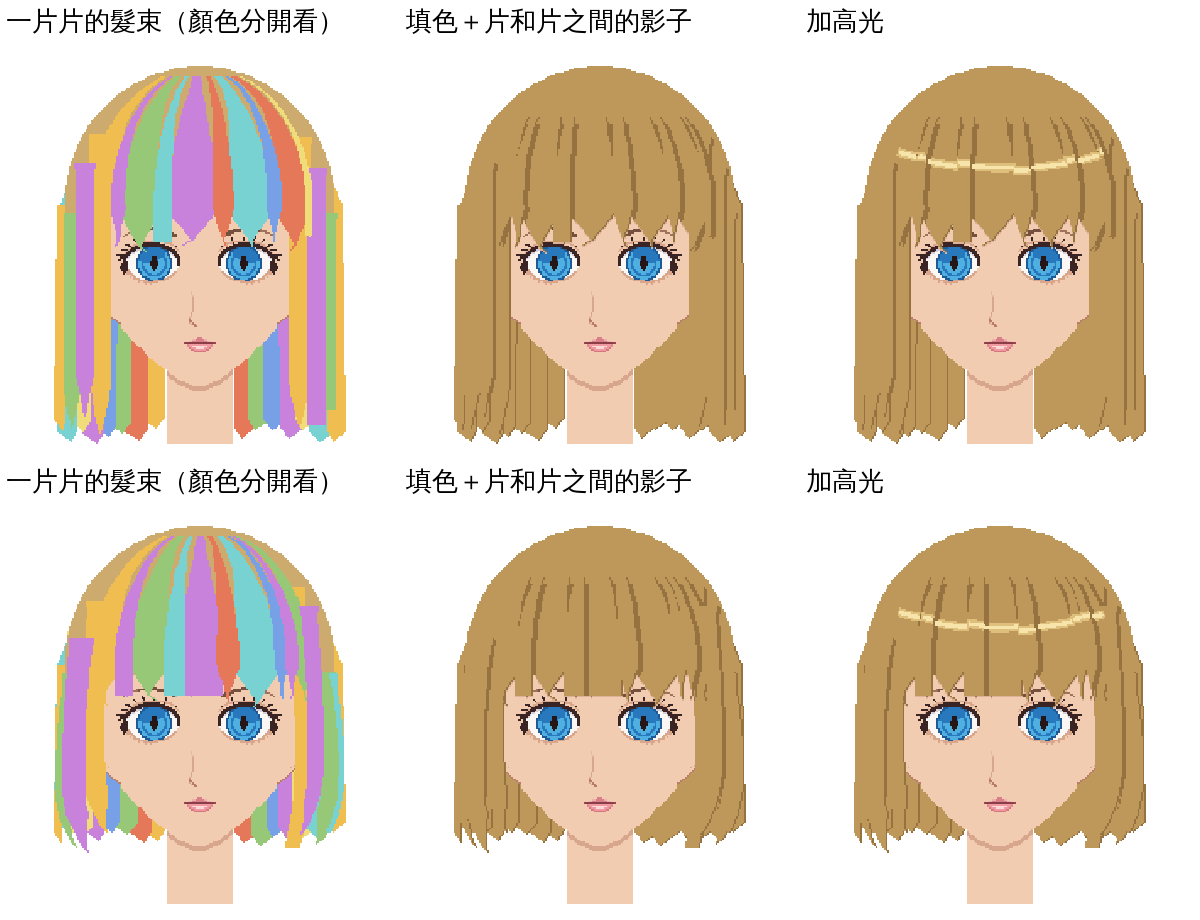
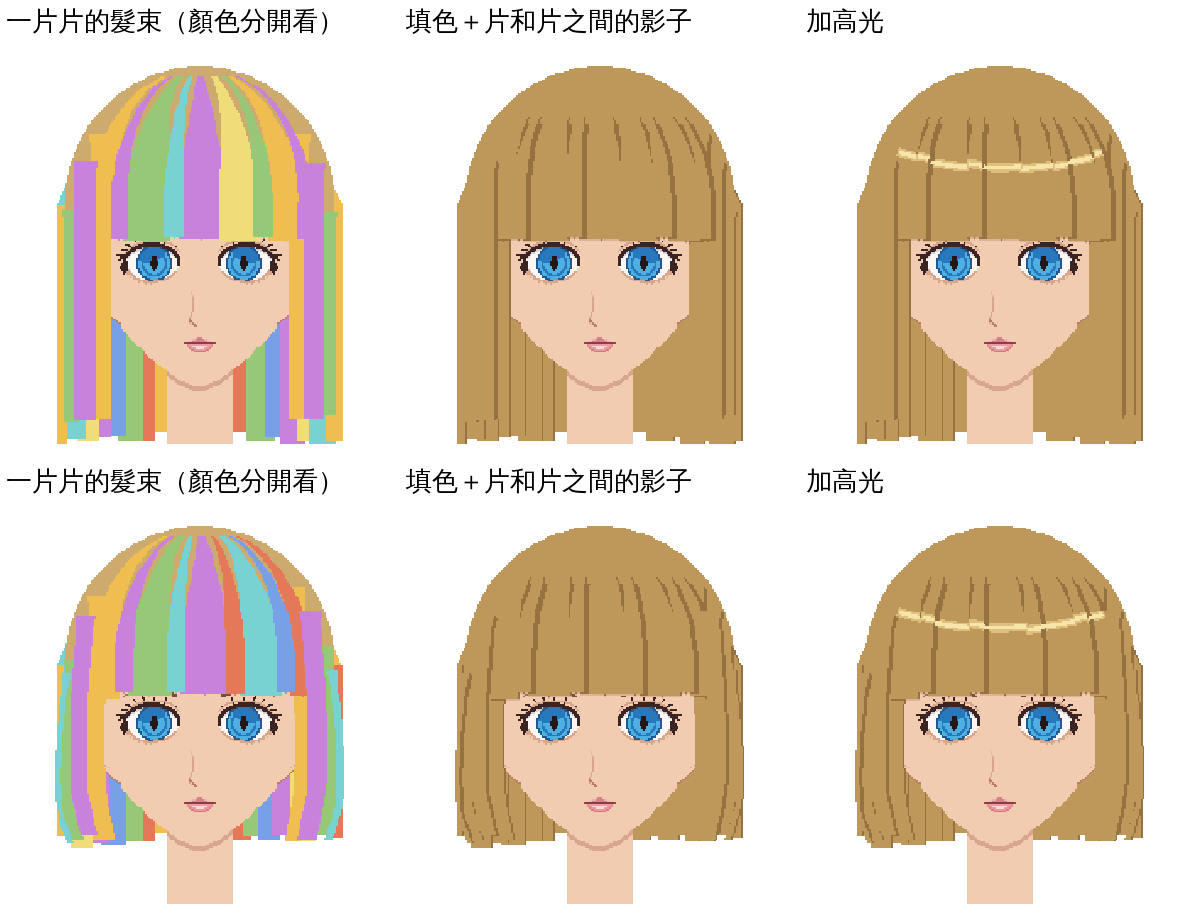
droom 臉模 v2：髮束每一片下面改成平的（剪齊，使用者），長短只差一點點；兩側、後髮的片也是平底
Claude-Session: https://claude.ai/code/session_01FDQv7ddy7JMjePn6AqJ3VJ

diff --git a/web/droom/face_mold/v2/hair_clumps.py b/web/droom/face_mold/v2/hair_clumps.py
@@ -30,8 +30,8 @@ def bang_clumps(rnd):
   while p<58:
     w=rnd.uniform(15,20) if big else rnd.uniform(6,9)
     a,b=p-(1.2 if big else .6),min(60,p+w+(1.2 if big else .6))
-    L=(rnd.choice([1,2,3,4,5]) if big else rnd.choice([-2,-1,0,1,2]))   # 不要垂到眼睛
-    tipy=BANG_Y-2+L;pointed=rnd.random()<(.7 if big else .5);lean=rnd.uniform(-.25,.25)
+    L=(rnd.choice([0,1,2,3]) if big else rnd.choice([-1,0,1]))   # 長短只差一點點
+    tipy=BANG_Y-2+L;pointed=False;lean=0   # 使用者 2026-11-19：每一片的下面是平的（剪齊），不是尖的
     top=CY-RO*.93
     left=[];right=[]
     for k in range(25):
@@ -52,7 +52,7 @@ def side_clumps(rnd):
       w=min(rnd.uniform(8,13),RO+1-abs(x-CX));xa,xb=(x,x+s*w) if s>0 else (x+s*w,x)
       ex=max(abs(xa-CX),abs(xb-CX))
       top=CY-math.sqrt(max(0,RO*RO-ex*ex))+6+rnd.uniform(0,3)   # 從頭頂那圈的邊緣下面長出來（不要在頭外面多出一個方角）
-      tip=bottom+rnd.uniform(-6,6);pointed=rnd.random()<.6
+      tip=bottom+rnd.uniform(-4,4);pointed=False
       bulge=(4*math.sin(math.pi*(top-104)/130) if HS=='bob' else 0)
       lx=[(xa-.8,top)];rx=[(xb+.8,top)]
       for k in range(1,20):
@@ -74,7 +74,7 @@ def back_clumps(rnd):
       xb=min(xb,CX+RO+4);xa=max(xa,CX-RO-4)
       tip=bottom-rnd.uniform(0,10)
       cy=lambda X:CY-math.sqrt(max(0,RO*RO-min(RO,abs(X-CX))**2))+3     # 從頭頂那圈裡面長出來，不在頭外面多一個方角
-      pts=[(xa-1,cy(xa)),(xb+1,cy(xb)),(xb+1+s*2,tip-6),((xa+xb)/2,tip),(xa-1+s*2,tip-6)]
+      pts=[(xa-1,cy(xa)),(xb+1,cy(xb)),(xb+1,tip),(xa-1,tip)]   # 下面平的
       out.append(Clump('back',pts,0,len(out)));x+=s*w*.8
   return out
 def build():
